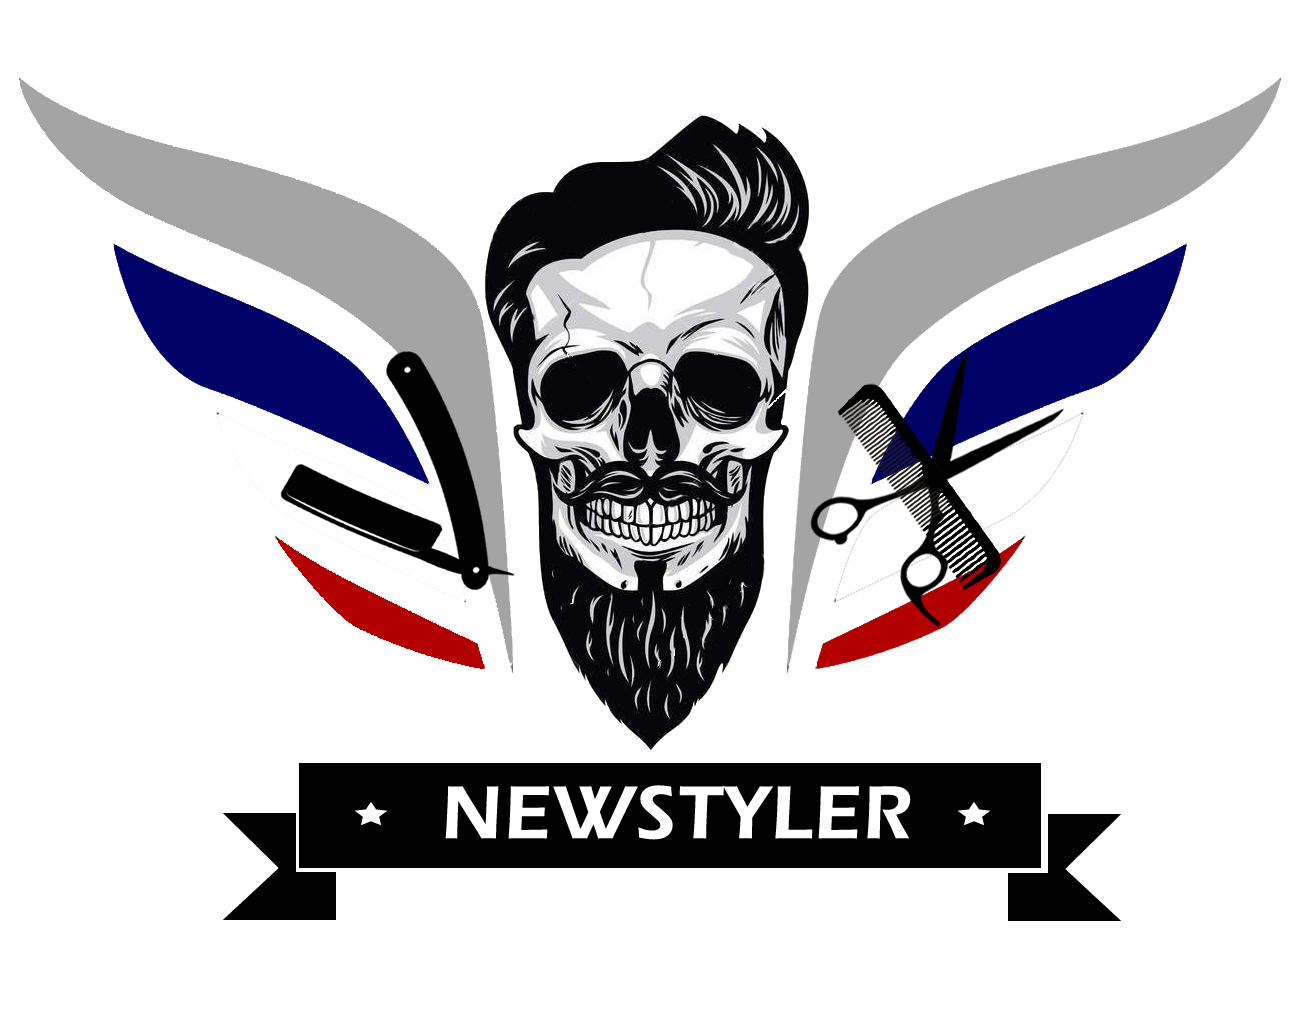
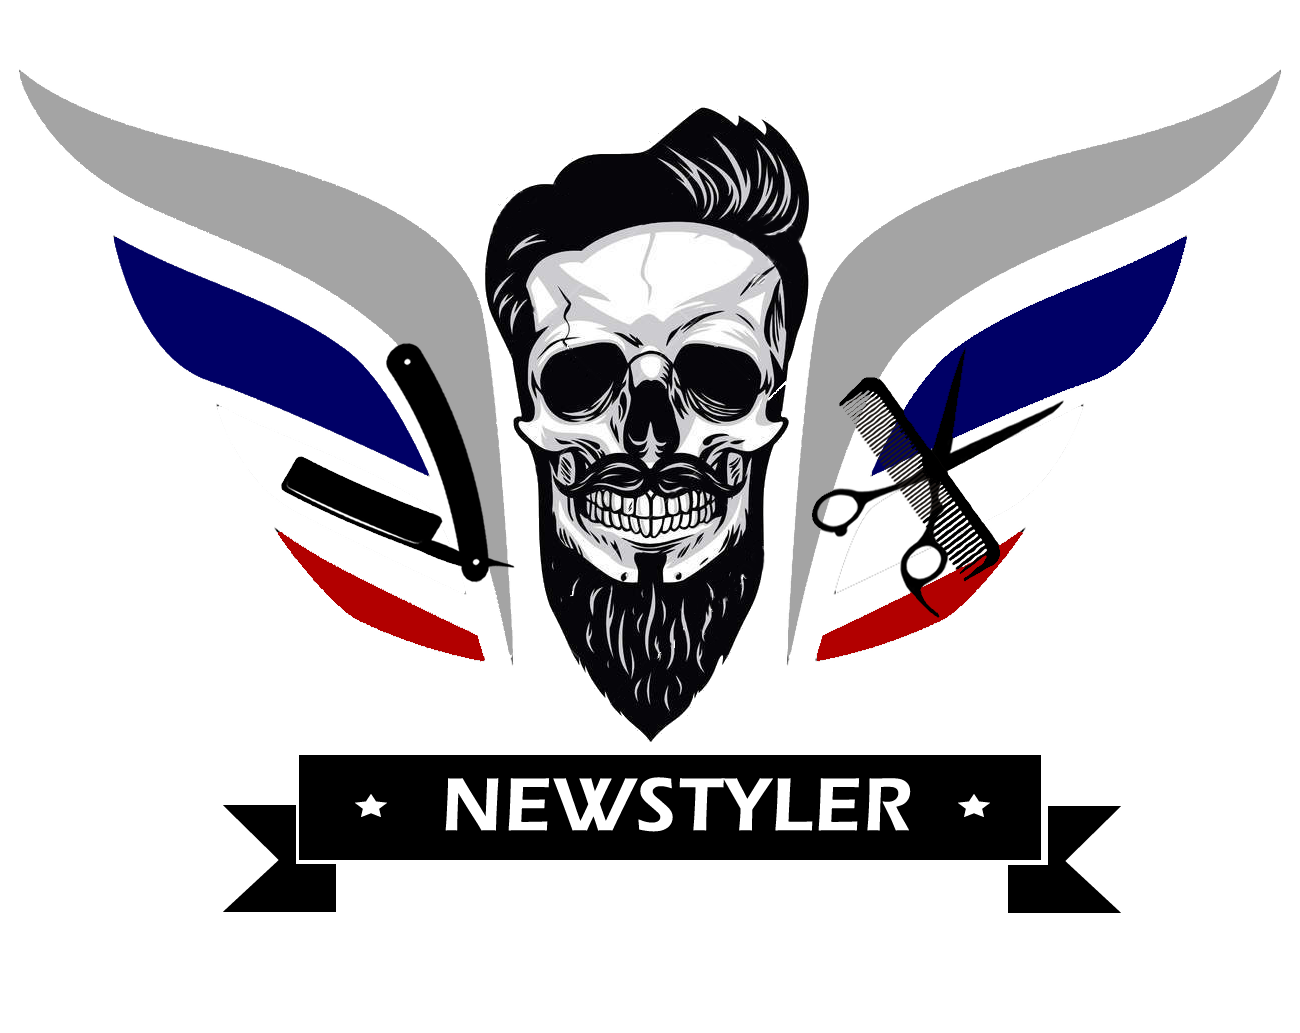
atualização app.css

diff --git a/css/app.css b/css/app.css
@@ -2,6 +2,34 @@
 /*!
  * Author: Cleber jr
  */
+ /*APP*/
+@media only screen and (max-width: 480px) { 
+img.bnimg{
+    top: 12%!important;
+    left: 9%!important;
+    width: 80%!important;
+    height: 76%!important;
+    position: absolute!important;
+}
+ .textImg{
+    font-size:12pt;
+    margin-top:145%;
+ }
+
+}
+img.bnimg{
+    top: 3%;
+    left: 23%;
+    width: 52%;
+    height: 99%;
+    position: absolute;
+}
+.textImg{
+    font-size:11pt;
+    margin-top:145%;
+    margin-left: -2%;
+ }
+ /*END APP*/
  @-webkit-viewport{width:device-width}@-moz-viewport{width:device-width}@-ms-viewport{width:device-width}@-o-viewport{width:device-width}@viewport{width:device-width}html{-ms-overflow-style:scrollbar;-moz-osx-font-smoothing:grayscale;font-family:sans-serif;line-height:1.15;-ms-text-size-adjust:100%;-webkit-text-size-adjust:100%}
 
 /*! normalize.css v5.0.0 | MIT License | github.com/necolas/normalize.css */body{margin:0}article,aside,footer,header,nav,section{display:block}h1{font-size:2em;margin:.67em 0}figcaption,figure,main{display:block}figure{margin:1em 40px}hr{box-sizing:content-box;height:0;overflow:visible}pre{font-family:monospace,monospace;font-size:1em}a{background-color:transparent;-webkit-text-decoration-skip:objects}a:active,a:hover{outline-width:0}abbr[title]{border-bottom:none;text-decoration:underline;text-decoration:underline dotted}b,strong{font-weight:inherit;font-weight:bolder}code,kbd,samp{font-family:monospace,monospace;font-size:1em}dfn{font-style:italic}mark{background-color:#ff0;color:#000}small{font-size:80%}sub,sup{font-size:75%;line-height:0;position:relative;vertical-align:baseline}sub{bottom:-.25em}sup{top:-.5em}audio,video{display:inline-block}audio:not([controls]){display:none;height:0}img{border-style:none}svg:not(:root){overflow:hidden}button,input,optgroup,select,textarea{font-family:sans-serif;font-size:100%;line-height:1.15;margin:0}button,input{overflow:visible}button,select{text-transform:none}[type=reset],[type=submit],button,html [type=button]{-webkit-appearance:button}[type=button]::-moz-focus-inner,[type=reset]::-moz-focus-inner,[type=submit]::-moz-focus-inner,button::-moz-focus-inner{border-style:none;padding:0}[type=button]:-moz-focusring,[type=reset]:-moz-focusring,[type=submit]:-moz-focusring,button:-moz-focusring{outline:1px dotted ButtonText}fieldset{border:1px solid silver;margin:0 2px;padding:.35em .625em .75em}legend{box-sizing:border-box;color:inherit;display:table;max-width:100%;padding:0;white-space:normal}progress{display:inline-block;vertical-align:baseline}textarea{overflow:auto}[type=checkbox],[type=radio]{box-sizing:border-box;padding:0}[type=number]::-webkit-inner-spin-button,[type=number]::-webkit-outer-spin-button{height:auto}[type=search]{-webkit-appearance:textfield;outline-offset:-2px}[type=search]::-webkit-search-cancel-button,[type=search]::-webkit-search-decoration{-webkit-appearance:none}::-webkit-file-upload-button{-webkit-appearance:button;font:inherit}details,menu{display:block}summary{display:list-item}canvas{display:inline-block}[hidden],template{display:none}.cf:after,.cf:before{content:"";display:table}.cf:after{clear:both}.hidden,.hide{display:none!important}.show{display:block}.noscroll{overflow:hidden}.noscroll body{position:fixed;width:100%;height:100%}.wnd-image-placeholder>div{background-color:hsla(0,0%,87%,.2)}*{-webkit-tap-highlight-color:transparent!important}html{width:100%;height:100%}#wrapper *{box-sizing:border-box}iframe{border:none}.lt-ie10 a,.lt-ie10 a:active,.lt-ie10 a:focus,.lt-ie10 a:hover{outline:none!important}var{font-style:normal}::-moz-selection{background-color:rgba(105,160,215,.4)}::selection{background-color:rgba(105,160,215,.4)}a{color:inherit}a var,body:not(.touched):not(.wnd-cms) a:hover var{text-decoration:none!important}blockquote[type=cite]{border-color:transparent!important}button{border-radius:0}.wnd-float-left,.wnd-float-right{position:relative}.wnd-float-left+.text blockquote,.wnd-float-left+.text ol,.wnd-float-left+.text ul,.wnd-float-right+.text blockquote,.wnd-float-right+.text ol,.wnd-float-right+.text ul{display:table}.column-content .wnd-float-left{left:auto;margin-left:0!important}.column-content .wnd-float-right{right:auto;margin-right:0!important}body.wnd-cms .mt .text h1 a,body.wnd-cms .mt .text h1 a:hover,body.wnd-cms .mt .text h2 a,body.wnd-cms .mt .text h2 a:hover,body.wnd-cms .mt .text h3 a,body.wnd-cms .mt .text h3 a:hover,body.wnd-cms .mt .text h4 a,body.wnd-cms .mt .text h4 a:hover,body.wnd-cms .text h1 a,body.wnd-cms .text h1 a:hover,body.wnd-cms .text h2 a,body.wnd-cms .text h2 a:hover,body.wnd-cms .text h3 a,body.wnd-cms .text h3 a:hover,body.wnd-cms .text h4 a,body.wnd-cms .text h4 a:hover{color:inherit!important;border-bottom-color:transparent!important;text-decoration:none!important}body.wnd-cms .mt .text p font[color] a,body.wnd-cms .mt .text p font[color] a:hover,body.wnd-cms .text p font[color] a,body.wnd-cms .text p font[color] a:hover{color:inherit!important;border-bottom-color:inherit!important}.mt .text h1 a,.mt .text h2 a,.mt .text h3 a,.mt .text h4 a,.text h1 a,.text h2 a,.text h3 a,.text h4 a{color:inherit!important;border-bottom-color:transparent!important;text-decoration:none!important}body:not(.touched):not(.wnd-cms) .mt .text h1 a:hover,body:not(.touched):not(.wnd-cms) .mt .text h2 a:hover,body:not(.touched):not(.wnd-cms) .mt .text h3 a:hover,body:not(.touched):not(.wnd-cms) .mt .text h4 a:hover,body:not(.touched):not(.wnd-cms) .text h1 a:hover,body:not(.touched):not(.wnd-cms) .text h2 a:hover,body:not(.touched):not(.wnd-cms) .text h3 a:hover,body:not(.touched):not(.wnd-cms) .text h4 a:hover{color:inherit!important;border-bottom-color:inherit!important}body:not(.touched):not(.wnd-cms) .mt .text h1 a:hover font[color],body:not(.touched):not(.wnd-cms) .mt .text h2 a:hover font[color],body:not(.touched):not(.wnd-cms) .mt .text h3 a:hover font[color],body:not(.touched):not(.wnd-cms) .mt .text h4 a:hover font[color],body:not(.touched):not(.wnd-cms) .text h1 a:hover font[color],body:not(.touched):not(.wnd-cms) .text h2 a:hover font[color],body:not(.touched):not(.wnd-cms) .text h3 a:hover font[color],body:not(.touched):not(.wnd-cms) .text h4 a:hover font[color]{-webkit-transition:all .1s ease-in;transition:all .1s ease-in;border-bottom:1px solid currentColor!important}.mt .text p font[color] a,.text p font[color] a,body:not(.touched):not(.wnd-cms) .mt .text p font[color] a:hover,body:not(.touched):not(.wnd-cms) .text p font[color] a:hover{color:inherit!important;border-bottom-color:inherit!important}.wnd-page .text .wnd-align-left{text-align:left}.wnd-page .text .wnd-align-center{text-align:center}.wnd-page .text .wnd-align-justify{text-align:justify}.wnd-page .text .wnd-align-right{text-align:right}font.wnd-font-size-10{font-size:10%}font.wnd-font-size-20{font-size:20%}font.wnd-font-size-30{font-size:30%}font.wnd-font-size-40{font-size:40%}font.wnd-font-size-50{font-size:50%}font.wnd-font-size-60{font-size:60%}font.wnd-font-size-70{font-size:70%}font.wnd-font-size-80{font-size:80%}font.wnd-font-size-90{font-size:90%}font.wnd-font-size-100{font-size:100%}font.wnd-font-size-110{font-size:110%}font.wnd-font-size-120{font-size:120%}font.wnd-font-size-130{font-size:130%}font.wnd-font-size-140{font-size:140%}font.wnd-font-size-150{font-size:150%}font.wnd-font-size-160{font-size:160%}font.wnd-font-size-170{font-size:170%}font.wnd-font-size-180{font-size:180%}font.wnd-font-size-190{font-size:190%}font.wnd-font-size-200{font-size:200%}.logo font[class*=wnd-font-size]{display:inline-block}.fonts-loaded .wnd-fonts-fallback .wnd-page,.fonts-loaded .wnd-fonts-fallback .wnd-page h1,.fonts-loaded .wnd-fonts-fallback .wnd-page h2,.fonts-loaded .wnd-fonts-fallback .wnd-page h3,.fonts-loaded .wnd-fonts-fallback .wnd-page h4{font-weight:400!important}.fonts-loaded .wnd-fonts-fallback .wnd-page b,.fonts-loaded .wnd-fonts-fallback .wnd-page h1 b,.fonts-loaded .wnd-fonts-fallback .wnd-page h1 strong,.fonts-loaded .wnd-fonts-fallback .wnd-page h2 b,.fonts-loaded .wnd-fonts-fallback .wnd-page h2 strong,.fonts-loaded .wnd-fonts-fallback .wnd-page h3 b,.fonts-loaded .wnd-fonts-fallback .wnd-page h3 strong,.fonts-loaded .wnd-fonts-fallback .wnd-page h4 b,.fonts-loaded .wnd-fonts-fallback .wnd-page h4 strong,.fonts-loaded .wnd-fonts-fallback .wnd-page strong{font-weight:700!important}.block.wnd-align-left>div{text-align:left}.block.wnd-align-center>div{text-align:center}.block.wnd-align-right>div{text-align:left}.section{position:relative}.section:after,.section:before{content:"";display:table}.section:after{clear:both}.section-inner{position:relative}.section-inner:after,.section-inner:before{content:"";display:table}.section-inner:after{clear:both}.section-bg{display:block;width:100%;height:100%}.section-bg,.section-bg-layer{position:absolute;top:0;left:0;overflow:hidden}.section-bg-layer{bottom:0;right:0}.section-bg-layer>div{position:relative;height:100%;text-align:center;overflow:hidden}.section-bg-overlay{display:none}.wnd-video-background.orientation-landscape{width:100%;height:auto}body:not(.isIE) .wnd-video-background.orientation-landscape{height:100%;object-fit:cover}.wnd-video-background.orientation-portrait{width:auto;height:100%}body.isIE .wnd-video-background.orientation-portrait{width:100%;object-fit:cover}.wnd-background-image{background-size:cover;background-repeat:no-repeat}.wnd-background-pattern{background-repeat:repeat;background-size:auto}.wnd-background-image+.section-bg-overlay,.wnd-background-pattern+.section-bg-overlay,.wnd-background-video+.section-bg-overlay{display:block}.bgpos-top-center{background-position:top}.bgpos-center-center{background-position:50%}.bgpos-bottom-center{background-position:bottom}body:not(.touched) .bgatt-fixed{background-attachment:fixed}.bgatt-scroll{background-attachment:scroll}body:not(.wnd-cms) .section-bg{z-index:0}body:not(.wnd-cms) .parallax{position:fixed;z-index:-1;-webkit-transform:translateZ(0);transform:translateZ(0);pointer-events:none}.section-wrapper .fullscreen{height:100vh;min-height:400px;max-height:500px}.section-wrapper .fullscreen-all{height:100vh;min-height:360px;max-height:100%}.ios-iframe .section-wrapper .fullscreen-all{max-height:500px}.wnd-cms .section-wrapper .fullscreen-all{height:calc(100vh - 45px);max-height:calc(100vh - 45px)}#wnd_cookie_bar:not([style="display: none;"])~.wnd-page .section-wrapper .fullscreen-all:first-child{height:calc(100vh - 46px)}#wnd_user_bar:not([style="display: none;"])~.wnd-page .section-wrapper .fullscreen-all:first-child{height:calc(100vh - 47px)}#wnd_user_bar:not([style="display: none;"])+#wnd_cookie_bar:not([style="display: none;"])~.wnd-page .section-wrapper .fullscreen-all:first-child{height:calc(100vh - 46px - 47px)}

diff --git a/index.html b/index.html
@@ -76,10 +76,7 @@
 			<div class="claim-content cf">
 				<div class="header-claim cf">
 					<h1>
-			<img src="img/cav.png" alt="" style="top:0%;left:23%;width:52%;height:95%;position:absolute;"><div class="embed-content">
-			<div class="small-claim cf"><span class="styled-inline-text claim-default pt-serif">
-	<span style="margin-top:145%;"><span >  Um corte, um novo estilo</span></span>
-</span></div>
+			<img src="img/cav.png" alt="" class="bnimg">
 					</h1>
 				</div>
 			</div>
